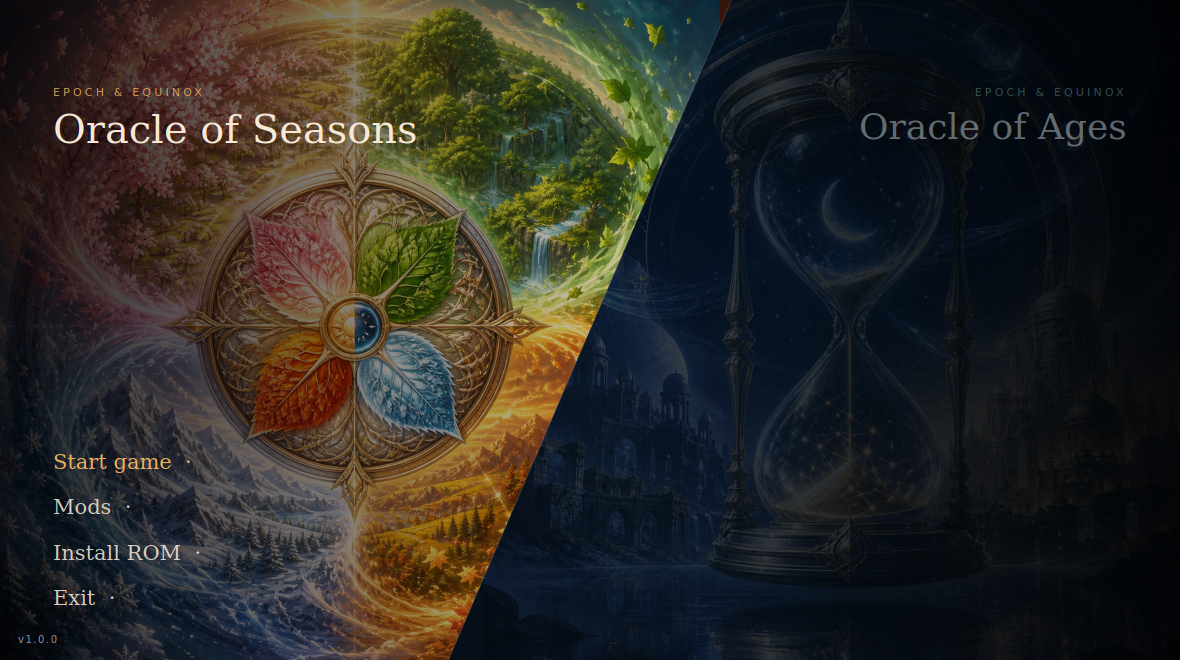
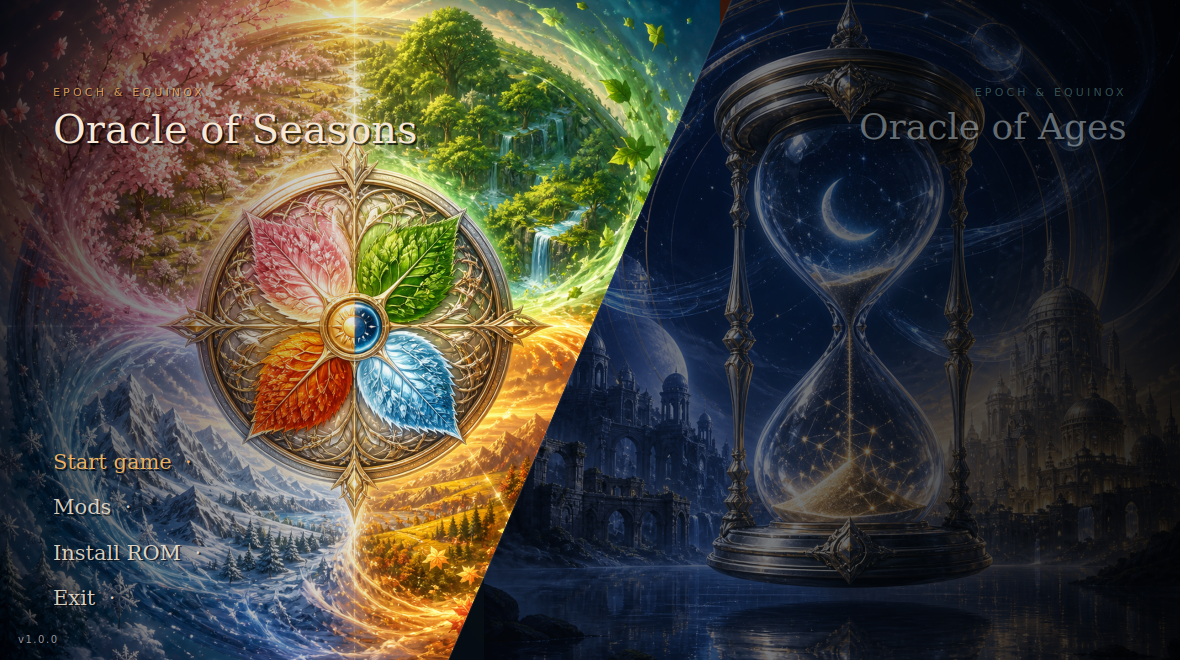
Launcher: let the cover art be seen
Both panels were tuned for bright artwork and went muddy on dark art:
the inactive cover drew at a quarter opacity over a near-black ground,
and the text scrim faded to clear only at 55% of the width, shading
half the active panel as well.

- Active cover draws at full opacity, inactive at 0.72 under a light
  veil. The hierarchy now comes from the veil and the text treatment
  rather than from crushing the artwork.
- The scrim clears by 34% of the width, so it sits under the text
  instead of blanketing the panel.
- Titles, eyebrow, warnings and menu items draw with a soft shadow, so
  they stay readable on whatever art someone drops in -- snowfields and
  waterfalls included, which is exactly where the narrower scrim leaves
  them exposed.

Hero shot regenerated.

Claude-Session: https://claude.ai/code/session_01XEpJisF9zsRiy31aAWP8eC

diff --git a/launcher/epoch_launcher.py b/launcher/epoch_launcher.py
@@ -615,23 +615,34 @@ class LauncherView(QWidget):
                 Qt.AspectRatioMode.KeepAspectRatioByExpanding,
                 Qt.TransformationMode.SmoothTransformation,
             )
-            pr.setOpacity(0.78 if active else 0.24)
+            # Both covers stay legible. Drawing the inactive one at a
+            # quarter opacity over a near-black ground assumed bright art;
+            # a dark cover just turned to mud. The active/inactive
+            # hierarchy comes from the veil below and the text treatment,
+            # not from crushing the artwork.
+            pr.setOpacity(1.0 if active else 0.72)
             pr.drawPixmap(
                 int(cx - scaled.width() / 2), int(h / 2 - scaled.height() / 2), scaled
             )
             pr.setOpacity(1.0)
 
+            if not active:
+                pr.fillPath(path, QBrush(QColor(6, 8, 12, 92)))
+
             # Scrim under the text side. Custom art is drawn bright enough to
             # actually look at, so the title and menu need their own contrast
             # rather than relying on the art being dim.
+            # Only as much scrim as the text actually needs. Fading to
+            # clear at 0.55 shaded over half the artwork, which on a dark
+            # cover read as "the whole panel is dim".
             scrim = QLinearGradient(0, 0, w, 0)
-            dark = QColor(0, 0, 0, 205)
+            dark = QColor(0, 0, 0, 188)
             clear = QColor(0, 0, 0, 0)
             if index == 0:
                 scrim.setColorAt(0.0, dark)
-                scrim.setColorAt(0.55, clear)
+                scrim.setColorAt(0.34, clear)
             else:
-                scrim.setColorAt(0.45, clear)
+                scrim.setColorAt(0.66, clear)
                 scrim.setColorAt(1.0, dark)
             pr.fillPath(path, QBrush(scrim))
         else:
@@ -645,6 +656,23 @@ class LauncherView(QWidget):
 
         self._paint_text(pr, index, game, theme, w, h, active)
         pr.restore()
+
+    @staticmethod
+    def _text(pr: QPainter, rect: QRectF, align, s: str, ink: QColor,
+              shadow: float = 1.6) -> None:
+        """Draw text with a soft dark offset behind it.
+
+        The scrim is deliberately narrow now, so text can land on bright
+        artwork (snowfields, waterfalls). A shadow costs nothing and keeps
+        every label readable regardless of what cover art someone drops in.
+        """
+        if shadow > 0.0:
+            dark = QColor(0, 0, 0, 165)
+            dark.setAlphaF(dark.alphaF() * ink.alphaF())
+            pr.setPen(dark)
+            pr.drawText(rect.translated(shadow, shadow), align, s)
+        pr.setPen(ink)
+        pr.drawText(rect, align, s)
 
     def _paint_text(
         self,
@@ -669,19 +697,18 @@ class LauncherView(QWidget):
         pr.setFont(label_font(8.5, 3.2))
         sub = QColor(theme.accent)
         sub.setAlphaF(0.85 if active else 0.35)
-        pr.setPen(sub)
-        pr.drawText(QRectF(x, h * 0.13, box_w, 22), align, "EPOCH & EQUINOX")
+        self._text(pr, QRectF(x, h * 0.13, box_w, 22), align,
+                   "EPOCH & EQUINOX", sub, 1.2)
 
         pr.setFont(title_font(30 if active else 27, QFont.Weight.Light))
-        pr.setPen(ink)
-        pr.drawText(QRectF(x, h * 0.16, box_w, 64), align, game.title)
+        self._text(pr, QRectF(x, h * 0.16, box_w, 64), align, game.title, ink, 2.0)
 
         if not game.playable:
             warn = QColor(236, 150, 140)
             warn.setAlphaF(0.95 if active else 0.4)
             pr.setFont(label_font(8.0, 2.6))
-            pr.setPen(warn)
-            pr.drawText(QRectF(x, h * 0.245, box_w, 20), align, "ROM REQUIRED")
+            self._text(pr, QRectF(x, h * 0.245, box_w, 20), align,
+                       "ROM REQUIRED", warn, 1.2)
 
         if active:
             self._paint_menu(pr, game, theme, x, box_w, h, align)
@@ -714,8 +741,8 @@ class LauncherView(QWidget):
             else:
                 col = QColor(theme.ink)
                 col.setAlphaF(0.86)
-            pr.setPen(col)
-            pr.drawText(rect, align | Qt.AlignmentFlag.AlignVCenter, f"{item}  ·")
+            self._text(pr, rect, align | Qt.AlignmentFlag.AlignVCenter,
+                       f"{item}  ·", col, 1.8)
 
 
 # --------------------------------------------------------------------------
